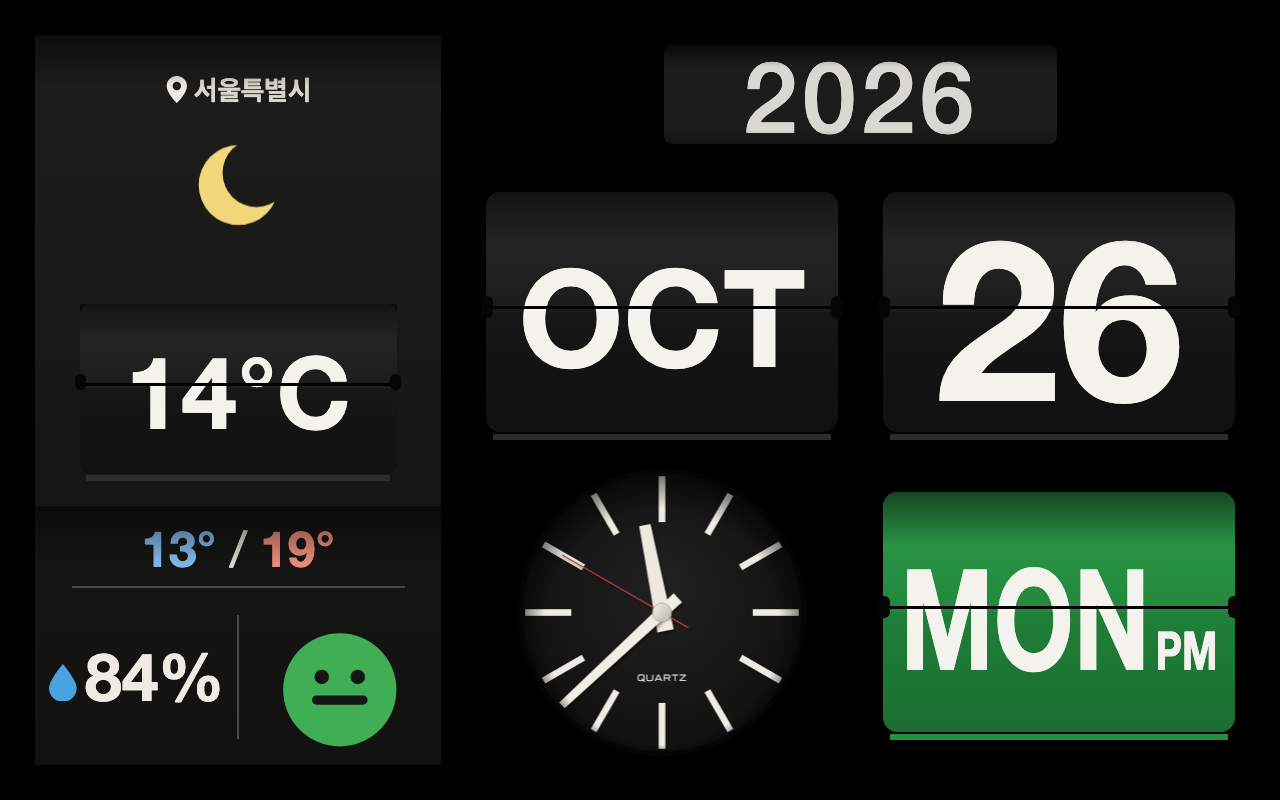
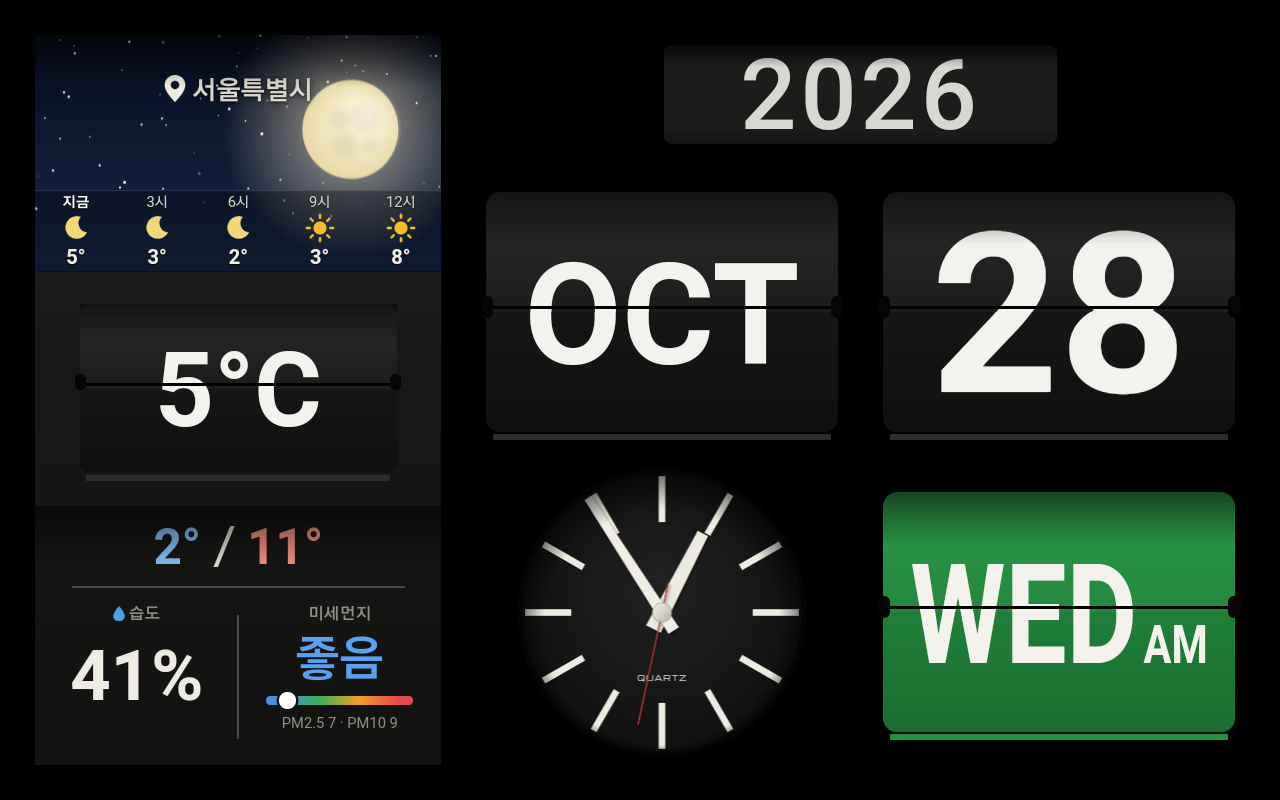
Weather sky: pause via a skyOff flag instead of the music-mode variable; README and screenshot

diff --git a/index.html b/index.html
@@ -603,13 +603,14 @@
     return ["", "cloud"];
   }
   // ---------- 위 창 하늘 (아이폰 날씨 앱처럼): 맑은 낮 = 해와 빛살, 밤 = 달과 반짝이는 별(가끔 별똥별), 구름은 천천히 흐르고
-  // 비·눈은 내리고, 뇌우는 번개가 번쩍임. 1번 모드에서 보일 때만 초당 20장 (휴식·숨김·2번 모드면 멈춤: 탭 발열·배터리) ----------
+  // 비·눈은 내리고, 뇌우는 번개가 번쩍임. 1번 모드에서 보일 때만 초당 20장 (휴식·숨김·덮임(skyOff)이면 멈춤: 탭 발열·배터리) ----------
   var SKY = {   // [낮 위, 낮 아래, 밤 위, 밤 아래]
     sun: ["#2f6fc4", "#7fb7ea", "#060d1d", "#18294a"], part: ["#3f75b8", "#86b4dd", "#0a1222", "#1e2b44"],
     cloud: ["#5d6f84", "#94a4b6", "#151b24", "#2a3340"], fog: ["#76808a", "#a5adb4", "#22272d", "#383e45"],
     rain: ["#46566a", "#728396", "#10161e", "#222b37"], snow: ["#7f90a6", "#b8c4d1", "#1a2230", "#323d4d"],
     storm: ["#2a313b", "#4a5462", "#0b0e13", "#1d232c"], none: ["#1d1d1c", "#121211", "#1d1d1c", "#121211"]
   };
+  var skyOff = false;   // 다른 화면이 날씨 창을 덮을 때 true (그동안 그리지 않음)
   var sky = { kind: "none", day: true, w: 0, h: 0, sprites: null, items: null, t0: Date.now(), last: 0, flash: 0, nextFlash: 0, bolt: null, shoot: null, nextShoot: 0 };
   function sprite(w, h, draw) { var c = document.createElement("canvas"); c.width = Math.max(1, w); c.height = Math.max(1, h); draw(c.getContext("2d"), c.width, c.height); return c; }
   function puff(col, w) {   // 흐릿한 구름 한 덩이 (미리 그려 두고 매 장 그대로 붙임)
@@ -665,7 +666,7 @@
   }
   function skyFrame() {
     var now = Date.now();
-    if (isResting || document.hidden || mode === 2) { setTimeout(skyFrame, 500); return; }
+    if (isResting || document.hidden || skyOff) { setTimeout(skyFrame, 500); return; }
     var W2 = Math.round(ww.w * MM * (window.devicePixelRatio || 1)), H2 = Math.round(W.wtop.h * MM * (window.devicePixelRatio || 1));
     if (W2 !== sky.w || H2 !== sky.h) { sky.w = wcv.width = W2; sky.h = wcv.height = H2; sky.items = null; }
     if (!sky.items) skyBuild();

diff --git a/README.md b/README.md
@@ -26,7 +26,7 @@ A retro flip calendar and weather clock made from an old **Samsung Galaxy Tab4 A
 - **오른쪽**: 연도 드럼, 월·일 플립 카드, 아날로그 시계, 요일 카드
   - 요일 카드는 토·일요일이 빨강, 평일이 초록입니다.
   - 연도는 해가 바뀌면 띠가 통째로 굴러 올라갑니다.
-- **왼쪽 날씨 판**: 지역, 날씨 아이콘, 기온 플립 카드, 최저/최고 기온, 습도(큰 숫자), 미세먼지(얼굴 아이콘 4단계)
+- **왼쪽 날씨 판**: 지역과 움직이는 하늘(아이폰 날씨처럼 해·실제 위상의 달·별·구름·비·눈·번개·안개), 시간별 예보 줄(지금부터 3시간 간격 5칸, 비·눈 확률), 기온 플립 카드, 최저/최고 기온, 습도, 미세먼지(등급·색 막대·PM2.5/PM10)
 - **플립 소리**: Web Audio로 합성합니다. 녹음 파일은 쓰지 않습니다.
 
 ### 탭에 설치
